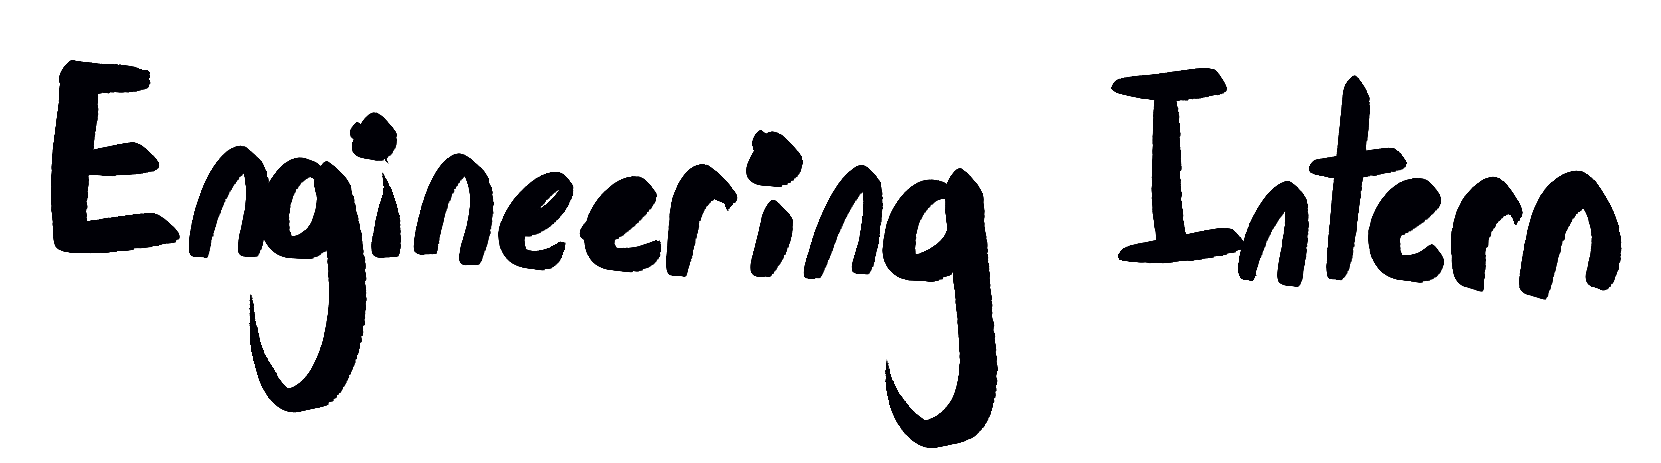
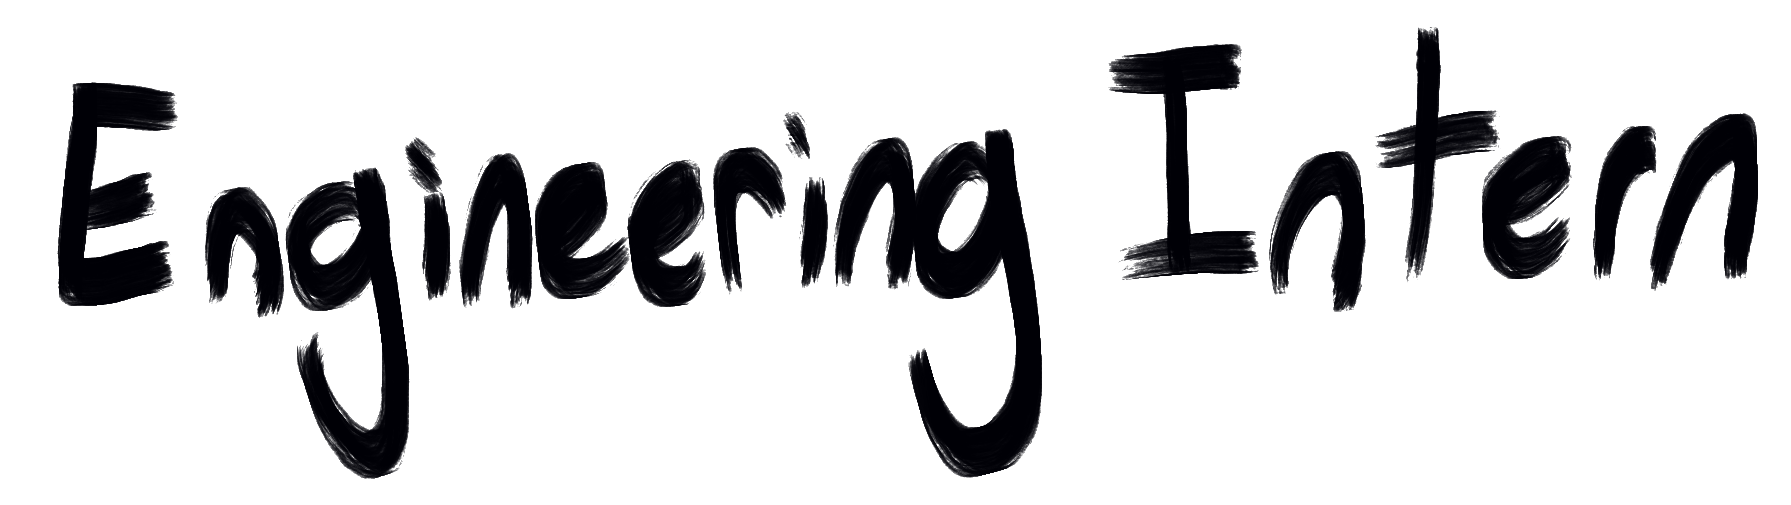
scribble location

Changed region(s): [[0.0307, 0.0605, 0.9825, 0.9676]]

diff --git a/src/components/scenes/Scene02Corkboard/Scene02Corkboard.jsx b/src/components/scenes/Scene02Corkboard/Scene02Corkboard.jsx
@@ -245,11 +245,11 @@ export default function Scene02Corkboard() {
                     height={2048}
                     className="h-auto w-full drop-shadow-[0_1px_2px_rgba(0,0,0,1)]"
                   />
-                <div className="absolute -left-6 bottom-[-50%] z-10 -rotate-1 transition-transform duration-200 hover:scale-[1.02]">
-                  <div className="relative">
-                    <Polaroid
-                      src="/quanto_selfie.jpeg"
-                      alt="Polaroid work snapshot"
+                  <div className="absolute -left-6 bottom-[-50%] z-10 -rotate-1 transition-transform duration-200 hover:scale-[1.02]">
+                    <div className="relative">
+                      <Polaroid
+                        src="/quanto_selfie.jpeg"
+                        alt="Polaroid work snapshot"
                         sizeClass="w-44 sm:w-52"
                         imageClass="w-32 h-40 sm:w-40 sm:h-48"
                         className="drop-shadow-[0_2px_6px_rgba(0,0,0,0.25)]"
@@ -257,24 +257,24 @@ export default function Scene02Corkboard() {
                       <div className="absolute top-4 left-1/2 z-10 -translate-x-1/2">
                         <div className="relative h-4 w-4 rounded-full border border-neutral-500 bg-neutral-300">
                           <div className="absolute left-[3px] top-[3px] h-2 w-2 rounded-full bg-neutral-100" />
+                        </div>
                       </div>
                     </div>
                   </div>
-                </div>
-                <div className="absolute left-[36%] bottom-[-18%] z-10 -rotate-2">
-                  <Image
-                    src="/quanto_scribble.png"
-                    alt="Software engineer scribble"
-                    width={884}
-                    height={685}
-                    className="h-auto w-[170px]"
-                  />
-                </div>
-                <div
-                  ref={quantoRef}
-                  className="absolute right-6 bottom-[-6%] z-10 w-[200px] -rotate-10 scale-[1.1] transition-transform duration-200 hover:scale-[1.13]"
-                >
-                  <Image
+                  <div className="absolute left-[35%] bottom-[-60%] z-10 -rotate-2">
+                    <Image
+                      src="/quanto_scribble.png"
+                      alt="Software engineer scribble"
+                      width={884}
+                      height={685}
+                      className="h-auto w-[250px]"
+                    />
+                  </div>
+                  <div
+                    ref={quantoRef}
+                    className="absolute right-6 bottom-[-6%] z-10 w-[200px] -rotate-10 scale-[1.1] transition-transform duration-200 hover:scale-[1.13]"
+                  >
+                    <Image
                       src="/quanto_sticky.png"
                       alt="Quanto Sticky"
                       width={1000}
@@ -298,13 +298,13 @@ export default function Scene02Corkboard() {
                   className="h-auto w-full drop-shadow-[0_1px_2px_rgba(0,0,0,1)]"
                 />
               </div>
-              <div className="absolute left-[72%] top-[240px] z-10 -rotate-2">
+              <div className="absolute left-[15%] top-[110px] z-10 -rotate-2">
                 <Image
                   src="/shopify_scribble.png"
                   alt="Engineering intern scribble"
                   width={1661}
                   height={463}
-                  className="h-auto w-[280px]"
+                  className="h-auto w-[360px]"
                 />
               </div>
               <div className="absolute left-[84%] top-[80px] w-[260px] shrink-0 -rotate-3 z-10">
@@ -316,7 +316,7 @@ export default function Scene02Corkboard() {
                   className="h-auto w-full drop-shadow-[0_1px_2px_rgba(0,0,0,1)]"
                 />
               </div>
-              <div className="absolute left-[6%] top-[320px] w-full max-w-[220px] -rotate-2 scale-[1.1] z-10 transition-transform duration-200 hover:scale-[1.12]">
+              <div className="absolute left-[0%] top-[320px] w-full max-w-[220px] -rotate-2 scale-[1.1] z-10 transition-transform duration-200 hover:scale-[1.12]">
                 <Image
                   src="/htn_sticky.png"
                   alt="Hack the North sticky"
